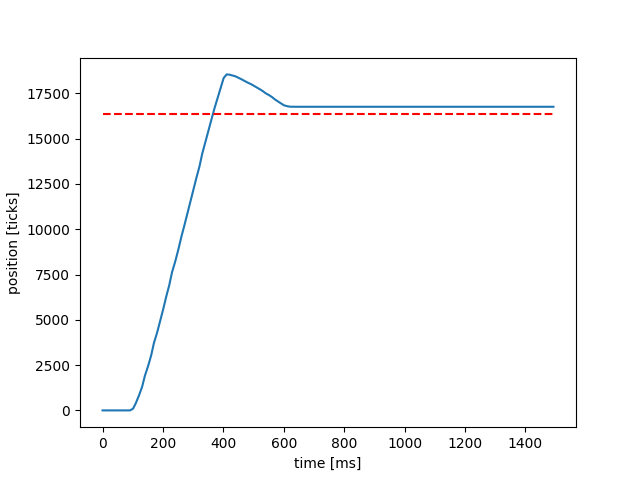
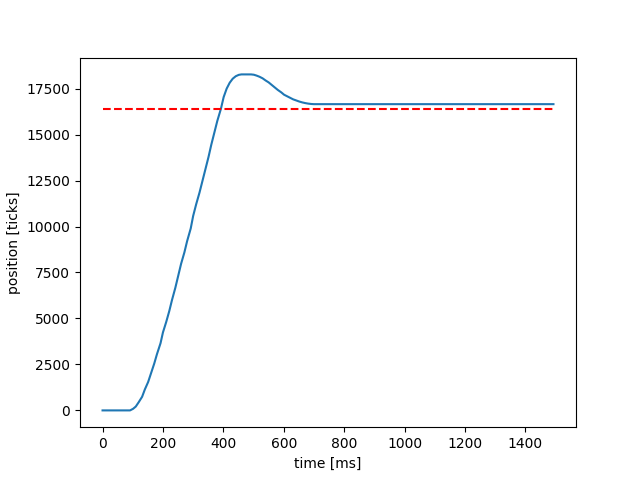
updated readme documentation

diff --git a/src/main.py b/src/main.py
@@ -94,7 +94,7 @@ if __name__ == "__main__":
     pidController2.set_gains(kp, ki, kd)
     # Read desired set point position from serial port
     # Converts degrees to ticks
-    pidController1.set_set_point(float(720)*(_PPR/360))
+    pidController1.set_set_point(float(360)*(_PPR/360))
     pidController2.set_set_point(float(360)*(_PPR/360))
     
     # Instantiate motor 1 with default pins and timer
@@ -116,9 +116,9 @@ if __name__ == "__main__":
     task_encoder2 = cotask.Task (task_enc2_fun, name = 'Encoder_2_Task', priority = 2, 
                          period = 10, profile = True, trace = False)
     task_controller1 = cotask.Task (task_controller1_fun, name = 'Controller_1_Task', priority = 1, 
-                         period = 30, profile = True, trace = False)
+                         period = 300, profile = True, trace = False)
     task_controller2 = cotask.Task (task_controller2_fun, name = 'Controller_2_Task', priority = 1, 
-                         period = 30, profile = True, trace = False)
+                         period = 300, profile = True, trace = False)
     task_data1 = cotask.Task (task_data1_fun, name = 'Data Collection Task', priority = 0,
                               period = 10, profile = True, trace = False)
     

diff --git a/README.md b/README.md
@@ -5,9 +5,12 @@
 The purpose of this lab is to run tasks simultaneously using a real time scheduler. The main goal is to get proper multitasking
 between multiple motors using previous lab assignments. We're able to run more than one motor at once in combination with our generic 
 controller from Lab 2. As we run these experiments, we're interested in running the tasks at slower and slower rates until the response
-of the motors is noticeably delayed, and affects the controller performance. Below are two step response plots that show the tasks running
-at a relatively fast rate of 10ms, and then we can see when the tasks are running at a rate of 100ms, the step response is noticeably worse
-and does not reach the set point efficiently.
+of the motors is noticeably delayed, and affects the controller performance. Below are step response plots that show the tasks running
+at a relatively fast rate of 10ms, and then we can see when the tasks are running at a rate of 75ms, the step response is noticeably worse
+and does not reach the set point efficiently due to %OS and having to control the response back to the set point. As we increased the time 
+rate, we noticed that the steady state error steadily increases until about the 75ms response. So although there is a noticeable steady state
+error in the response, it takes about the same amount of time to reach the set point and the SSE could be eliminated through the use of an
+integral controller in addition to the proportional controller used.
 
 
 ## Step Response Plots
@@ -21,6 +24,6 @@ and does not reach the set point efficiently.
 |**Figure 2: K<sub>P</sub> = 0.9, Task Run Rate = 50ms**|
 
 
-| ![Step Response 2: K_P = 0.9](plots/100ms.png) |
+| ![Step Response 2: K_P = 0.9](plots/75ms.png) |
 |:--:|
-|**Figure 3: K<sub>P</sub> = 0.9, Task Run Rate = 100ms**|
+|**Figure 3: K<sub>P</sub> = 0.9, Task Run Rate = 75ms**|
